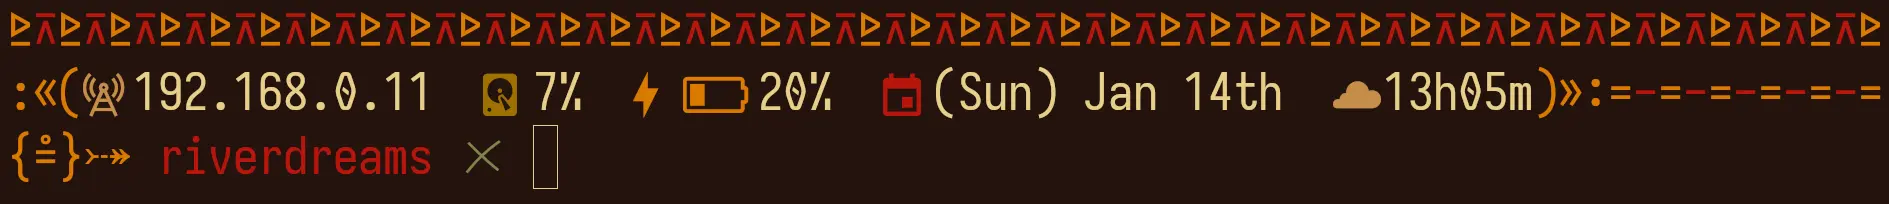
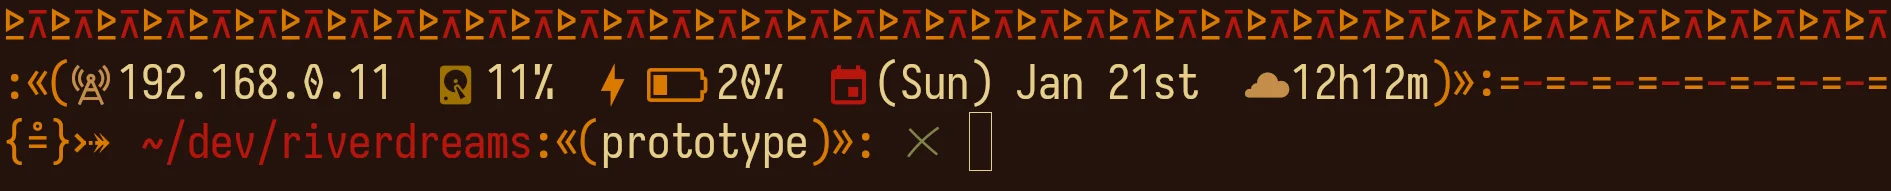
prepare v6.2.0
- Add git support back.
- Make directory path show complete path.

diff --git a/riverdreams.c b/riverdreams.c
@@ -1,8 +1,10 @@
 #define _GNU_SOURCE
 #include <arpa/inet.h>
+#include <dirent.h>
 #include <fcntl.h>
 #include <ifaddrs.h>
 #include <net/if.h>
+#include <stdarg.h>
 #include <stdio.h>
 #include <stdlib.h>
 #include <string.h>
@@ -21,12 +23,39 @@
 
 int modlen = 41;
 
+char *findgitroot(char *path);
 int countdgts(int n);
 void batmod(void);
 void calmod(struct tm *t);
 void clkmod(struct tm *t);
 void diskmod(void);
+void gitmod(char *root);
 void ipmod(void);
+
+char *findgitroot(char *path)
+{
+	int isroot = 0;
+	DIR *d;
+	struct dirent *e;
+	int lastslash = 0;
+	int i;
+	d = opendir(path);
+	while ((e = readdir(d)))
+		if (!strcmp(e->d_name, ".git")) {
+			isroot = 1;
+			break;
+		}
+	closedir(d);
+	if (isroot)
+		return path;
+	if (strlen(path) == 1)
+		return NULL;
+	for (i = 0; i < strlen(path); i++)
+		if (path[i] == '/')
+			lastslash = i;
+	path[!lastslash ? 1 : lastslash] = 0;
+	return findgitroot(path);
+}
 
 int countdgts(int n)
 {
@@ -86,6 +115,30 @@ void diskmod(void)
 	modlen += countdgts(per);
 }
 
+void gitmod(char *root)
+{
+	FILE *f;
+	char *head;
+	char c;
+	int slashes = 0;
+	if (!root)
+		return;
+	head = malloc(strlen(root) + 11);
+	sprintf(head, "%s/.git/HEAD", root);
+	f = fopen(head, "r");
+	free(head);
+	if (!f)
+		return;
+	printf("%%F{3}:«(%%f");
+	while ((c = fgetc(f)) != EOF && c != '\n')
+		if (slashes == 2)
+			printf("%c", c);
+		else if (c == '/')
+			slashes++;
+	printf("%%F{3})»:");
+	fclose(f);
+}
+
 void ipmod(void)
 {
 	char ip[16] = "127.0.0.1";
@@ -113,6 +166,9 @@ int main(void)
 	struct winsize w;
 	time_t tt = time(NULL);
 	struct tm *t = localtime(&tt);
+	char *pwd = getenv("PWD");
+	char *buf = malloc(strlen(pwd) + 1);
+	strcpy(buf, pwd);
 	ioctl(2, TIOCGWINSZ, &w);
 	SYMLN("%%F{1}⊼", "%%F{3}⊵", w.ws_col);
 	printf("%%F{3}:«(");
@@ -124,6 +180,9 @@ int main(void)
 	printf("%%F{3})»:");
 	SYMLN("%%F{1}-", "%%F{3}=", w.ws_col - modlen);
 	printf("%%F{3}%%(#.{%%F{1}#%%F{3}}.){%%(?.≗.%%F{1}⨲)%%F{3}}⤐  %%F{1}"
-	       "%%1~ %%F{6}✗%%f  \n");
+	       "%%~");
+	gitmod(findgitroot(buf));
+	printf(" %%F{6}✗%%f  \n");
+	free(buf);
 	return 0;
 }

diff --git a/README.md b/README.md
@@ -14,7 +14,7 @@
 
 ## ❡ About
 
-A multi-line ZSH theme for Linux with a tribal inspired style, designed to help you stay motivated while developing your dream projects.
+A tribal inspired ZSH theme for Linux.
 
 <p align="center"><img src="preview.webp" alt="" /></p>
 <p align="center"><sup><strong>Caption:</strong> a preview of the riverdreams theme applied on zsh. The terminal theme used is <a href="https://github.com/skippyr/flamerial">flamerial</a> and font is <a href="https://github.com/be5invis/Iosevka">iosevka SS08</a>.</sup></p>
@@ -31,7 +31,8 @@ Its prompt displays:
 &emsp;**5.**&ensp;A clock.\
 &emsp;**6.**&ensp;A decorator when you are the root user.\
 &emsp;**7.**&ensp;A decorator for exit codes.\
-&emsp;**8.**&ensp;Your current directory.
+&emsp;**8.**&ensp;Your current directory path.\
+&emsp;**9.**&ensp;The active branch, if inside a git repo.
 
 ## ❡ Install
 
